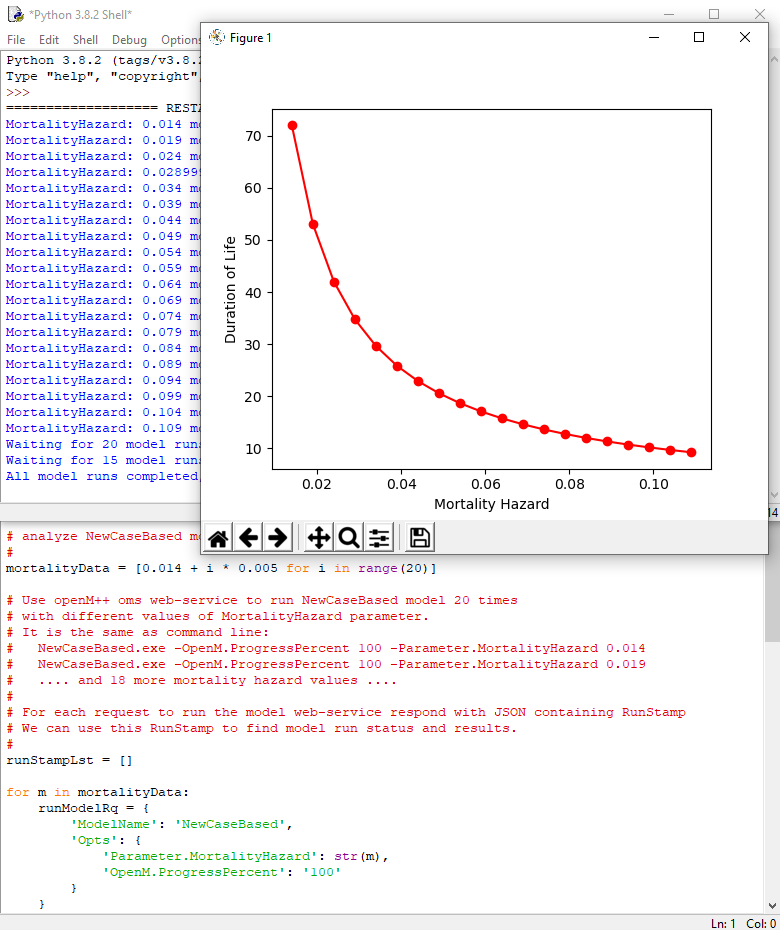
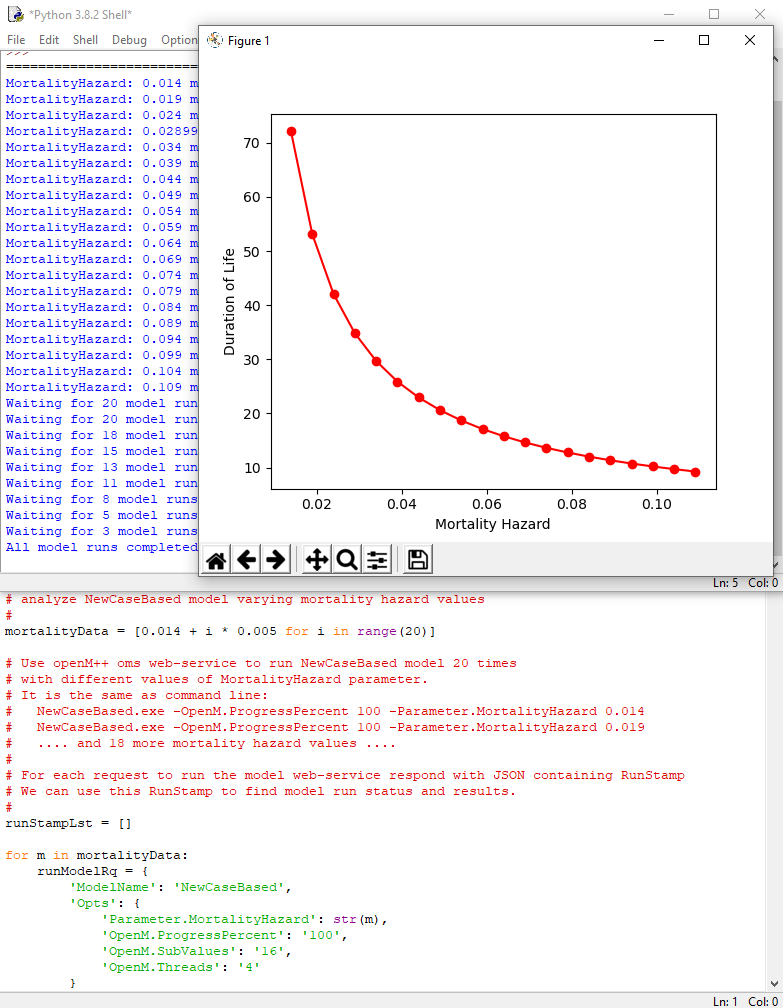
use same NewCaseBased run options as we do in R: 16 sub-values, 4 threads

diff --git a/life_vs_mortality.py b/life_vs_mortality.py
@@ -35,10 +35,10 @@ import matplotlib.pyplot as plt
 mortalityData = [0.014 + i * 0.005 for i in range(20)]
 
 # Use openM++ oms web-service to run NewCaseBased model 20 times
-# with different values of MortalityHazard parameter.
-# It is the same as command line:
-#   NewCaseBased.exe -OpenM.ProgressPercent 100 -Parameter.MortalityHazard 0.014
-#   NewCaseBased.exe -OpenM.ProgressPercent 100 -Parameter.MortalityHazard 0.019
+# with different values of MortalityHazard parameter:
+#
+# NewCaseBased.exe -OpenM.ProgressPercent 100 -OpenM.SubValues 16 OpenM.Threads 4 -Parameter.MortalityHazard 0.014
+# NewCaseBased.exe -OpenM.ProgressPercent 100 -OpenM.SubValues 16 OpenM.Threads 4 -Parameter.MortalityHazard 0.019
 #   .... and 18 more mortality hazard values ....
 #
 # For each request to run the model web-service respond with JSON containing RunStamp
@@ -51,7 +51,9 @@ for m in mortalityData:
         'ModelName': 'NewCaseBased',
         'Opts': {
             'Parameter.MortalityHazard': str(m),
-            'OpenM.ProgressPercent': '100'
+            'OpenM.ProgressPercent': '100',     # reduce amount of progress messages in the log file
+            'OpenM.SubValues': '16',            # use 16 sub-values (sub-samples)
+            'OpenM.Threads': '4'                # use 4 modeling threads
         }
     }
     #
